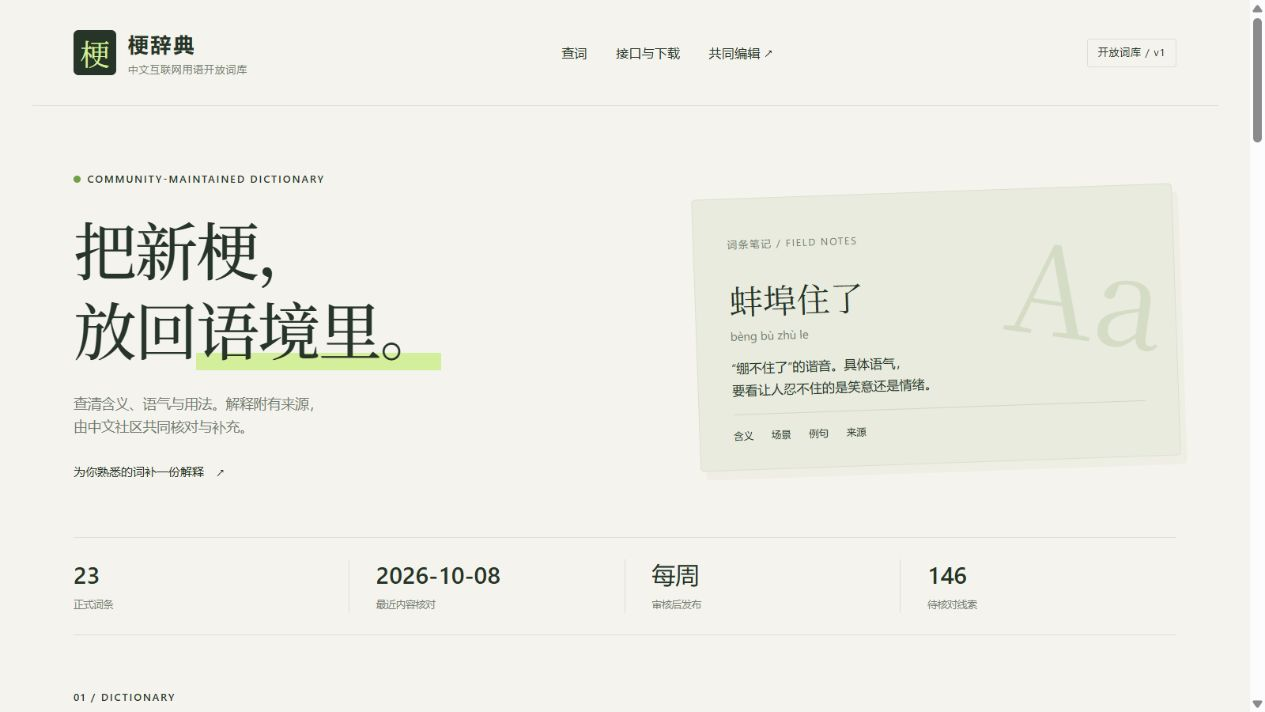
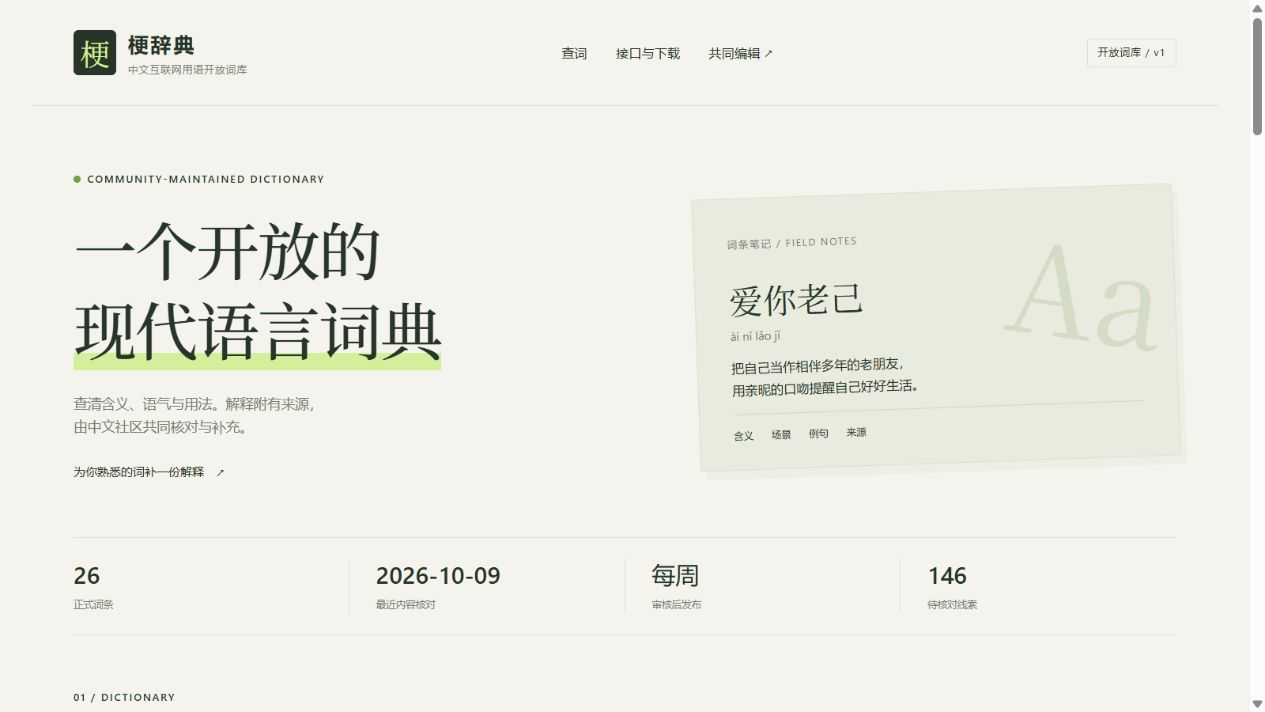
content: refresh featured terms and homepage copy

diff --git a/index.html b/index.html
@@ -19,8 +19,8 @@
   </header>
   <main class="wrap">
     <section class="hero" aria-labelledby="hero-title">
-      <div class="hero-copy"><span class="eyebrow"><span class="dot"></span> COMMUNITY-MAINTAINED DICTIONARY</span><h1 id="hero-title">把新梗，<br>放回<span class="highlight">语境里。</span></h1><p>查清含义、语气与用法。解释附有来源，<br class="desktop-break">由中文社区共同核对与补充。</p><a class="text-link" href="#contribute">为你熟悉的词补一份解释 <span aria-hidden="true">↗</span></a></div>
-      <div class="hero-note"><span class="note-label">词条笔记 / FIELD NOTES</span><div class="note-term">蚌埠住了<span>bèng bù zhù le</span></div><p>“绷不住了”的谐音。具体语气，<br>要看让人忍不住的是笑意还是情绪。</p><div class="note-bottom"><span>含义</span><span>场景</span><span>例句</span><span>来源</span></div><span class="note-number" aria-hidden="true">Aa</span></div>
+      <div class="hero-copy"><span class="eyebrow"><span class="dot"></span> COMMUNITY-MAINTAINED DICTIONARY</span><h1 id="hero-title">一个开放的<br><span class="highlight">现代语言词典</span></h1><p>查清含义、语气与用法。解释附有来源，<br class="desktop-break">由中文社区共同核对与补充。</p><a class="text-link" href="#contribute">为你熟悉的词补一份解释 <span aria-hidden="true">↗</span></a></div>
+      <div class="hero-note"><span class="note-label">词条笔记 / FIELD NOTES</span><div class="note-term">爱你老己<span>ài nǐ lǎo jǐ</span></div><p>把自己当作相伴多年的老朋友，<br>用亲昵的口吻提醒自己好好生活。</p><div class="note-bottom"><span>含义</span><span>场景</span><span>例句</span><span>来源</span></div><span class="note-number" aria-hidden="true">Aa</span></div>
     </section>
     <section class="stats" aria-label="词库概况"><div><strong id="entryCount">—</strong><span>正式词条</span></div><div><strong id="reviewDate">—</strong><span>最近内容核对</span></div><div><strong>每周</strong><span>审核后发布</span></div><div><strong id="candidateCount">—</strong><span>待核对线索</span></div></section>
     <section id="dictionary" class="dictionary-section" aria-labelledby="dictionary-title">
@@ -32,7 +32,7 @@
       <div id="entries" class="entry-grid"></div>
       <div id="noResults" class="empty-state" hidden><span class="empty-symbol" aria-hidden="true">＋</span><h3>还没收录你要找的词</h3><p>社区可以补充词义、用例与来源，核对后再进入正式词库。</p><a id="suggestLink" class="button" href="https://github.com/Roelatriper/china-meme-dictionary/issues/new?template=meme.yml" target="_blank" rel="noopener">提一个新词 ↗</a></div>
     </section>
-    <section id="api" class="api-section" aria-labelledby="api-title"><div class="api-copy"><span class="eyebrow">02 / FOR BUILDERS</span><h2 id="api-title">让程序也读懂。</h2><p>同一份中文词库，供用户查阅，也供 AI 和应用使用。无需 API Key，保留释义、例句和来源。</p><div class="download-links"><a class="button light" href="./api/v1/all.json" download="china-meme-dictionary.json">下载完整 JSON ↓</a><a class="text-link" href="./api/v1/index.json" target="_blank" rel="noopener">词条索引 ↗</a></div><p class="api-caption">静态 JSON 始终可读。直接查询接口可在本地服务或 Cloudflare 部署后调用。</p><a class="text-link" href="https://github.com/Roelatriper/china-meme-dictionary/blob/main/docs/api.md" target="_blank" rel="noopener">调用文档与示例 ↗</a></div><div class="code-panel"><div class="code-toolbar"><span><i></i><i></i><i></i></span><span>精确查询 · 词库演示</span><button id="copyJson" type="button">复制 JSON</button></div><form id="demoForm" class="demo-form"><label class="sr-only" for="demoTerm">演示查询词名</label><span>term=</span><input id="demoTerm" value="内卷" maxlength="128"><button type="submit">运行 →</button></form><pre id="demoOutput" aria-live="polite">正在读取词库…</pre></div></section>
+    <section id="api" class="api-section" aria-labelledby="api-title"><div class="api-copy"><span class="eyebrow">02 / FOR BUILDERS</span><h2 id="api-title">让程序也读懂。</h2><p>同一份中文词库，供用户查阅，也供 AI 和应用使用。无需 API Key，保留释义、例句和来源。</p><div class="download-links"><a class="button light" href="./api/v1/all.json" download="china-meme-dictionary.json">下载完整 JSON ↓</a><a class="text-link" href="./api/v1/index.json" target="_blank" rel="noopener">词条索引 ↗</a></div><p class="api-caption">静态 JSON 始终可读。直接查询接口可在本地服务或 Cloudflare 部署后调用。</p><a class="text-link" href="https://github.com/Roelatriper/china-meme-dictionary/blob/main/docs/api.md" target="_blank" rel="noopener">调用文档与示例 ↗</a></div><div class="code-panel"><div class="code-toolbar"><span><i></i><i></i><i></i></span><span>精确查询 · 词库演示</span><button id="copyJson" type="button">复制 JSON</button></div><form id="demoForm" class="demo-form"><label class="sr-only" for="demoTerm">演示查询词名</label><span>term=</span><input id="demoTerm" value="爱你老己" maxlength="128"><button type="submit">运行 →</button></form><pre id="demoOutput" aria-live="polite">正在读取词库…</pre></div></section>
     <section id="contribute" class="contribute-section" aria-labelledby="contribute-title"><div><span class="eyebrow">03 / BUILT TOGETHER</span><h2 id="contribute-title">你熟悉的语境，<br>正是词典需要的。</h2><p>新词、不同含义、失效来源，都可以一起修订。<br>贡献者提交内容，维护者集中审核，正式词库每周发布。</p><a class="button" href="https://github.com/Roelatriper/china-meme-dictionary/issues/new?template=meme.yml" target="_blank" rel="noopener">提交词条或线索 ↗</a><a class="text-link contribution-guide" href="https://github.com/Roelatriper/china-meme-dictionary/blob/main/CONTRIBUTING.md" target="_blank" rel="noopener">贡献指南</a></div><ol class="contribution-steps"><li><span>01</span><div><h3>发现与提词</h3><p>B站、微博、抖音的公开热点与社区提词，进入待核对线索。</p></div></li><li><span>02</span><div><h3>补释义与来源</h3><p>用自己的话解释，附上用例或出处；起源不确定时保留未知。</p></div></li><li><span>03</span><div><h3>审核后发布</h3><p>通过审核的词条进入网站与接口，待审内容继续留在队列。</p></div></li></ol></section>
     <section class="collection-note" aria-label="采集状态"><span class="dot"></span><p id="collectionStatus">候选线索与正式词条分开保存。</p><a href="./api/v1/candidates.json" target="_blank" rel="noopener">查看候选队列 ↗</a></section>
   </main>

diff --git a/docs/content-refresh-2026-10.md b/docs/content-refresh-2026-10.md
@@ -1,0 +1,102 @@
+# 首页词条更新核对
+
+核对日期：2026-10-09。本轮已将下面三个词加入正式词库，共 26 条；首页笔记与接口演示改用「爱你老己」，主标题改为「一个开放的现代语言词典」。历史词条保留供查询。本文件记录采用来源与内容研究依据，最终释义及例句以 `data/entries.json` 为准。
+
+下面的来源日期是报道或用例的发表日期，不能当作词语首创日期，也不能据此证明它在 2026 年 10 月仍是实时热榜。建议新词统一保留 `first_seen: null`，`reviewed_at: "2026-10-09"`；首页称为“近期收录”或“新词精选”比“今日热门”准确。定义、用法和例句均由编辑整理或自编，未整段转载来源内容。
+
+## 爱你老己
+
+建议 ID：`ai-ni-lao-ji`。拼音：`ài nǐ lǎo jǐ`。标签：情绪、自我关怀。可选别名：爱你，老己。
+
+- 建议释义：把自己当作老朋友，用亲切的口吻表达关心、肯定和善待自己。
+- 建议用法：常用于自我安慰、给自己鼓励或安排休息，语气轻松、温柔，老己指自己。
+- 编辑自编例句：忙了一整天，今晚早点休息。爱你老己，明天见。
+
+[新华日报《“爱你老己”：最热的梗，也是最坚韧的力量》](https://www.zgjssw.gov.cn/yaowen/202601/t20260112_8551392.shtml)发表于 **2026-01-12 08:51**，记者魏晓敏、吴雨阳。直接解释老己这一称呼如何将自己当作老朋友，并介绍屏保、点奶茶、写日记等实际使用场景。该原报道由中共江苏省委新闻网刊载。
+
+[新华社《千笔楼丨爱你，老己！》](https://www.news.cn/politics/20260218/74f12aa5b9614304b070394e78b91111/c.html)发表于 **2026-02-18 10:29:55**，是新华社自身实际使用该表达的文章，可作为公开用例补充。
+
+证据限度：这两篇报道足以支持上面的窄范围释义与用法，但未证明最早创作者、原始视频或首创时间。建议不写游戏人物、主播等未经独立核验的起源归因。
+
+可直接使用的来源对象：
+
+```json
+[
+  {
+    "title": "“爱你老己”：最热的梗，也是最坚韧的力量",
+    "url": "https://www.zgjssw.gov.cn/yaowen/202601/t20260112_8551392.shtml",
+    "kind": "explanation",
+    "publisher": "新华日报（中共江苏省委新闻网刊载）"
+  },
+  {
+    "title": "千笔楼丨爱你，老己！",
+    "url": "https://www.news.cn/politics/20260218/74f12aa5b9614304b070394e78b91111/c.html",
+    "kind": "usage",
+    "publisher": "新华社"
+  }
+]
+```
+
+## 活人感
+
+建议 ID：`huo-ren-gan`。拼音：`huó rén gǎn`。标签：评价、社交。无需先编入别名。
+
+- 建议释义：形容人物、表达或作品自然、真实、有情绪和生活气息，给人鲜活的感受。
+- 建议用法：多用于赞美不端着、不过分包装的表达；有瑕疵或随性可以体现这种感觉，但不等同于敷衍或缺乏专业度。
+- 编辑自编例句：她讲到自己做饭翻车时忍不住笑了，这段采访很有活人感。
+
+优先采用[人民日报《什么样的文艺质感更受青睐》](https://paper.people.com.cn/rmrb/pc/content/202512/09/content_30119185.html)，**2025-12-09 第 20 版**，作者李静。已实际打开全文。文章解释真实、不完美、生活细节与人性温度等特征，并给出综艺、影视、社交表达中的使用场景；也提醒不要用活人感为粗糙制作辩护。
+
+本轮也检索核对了[人民网《流行语背后的共情与共识》](https://opinion.people.com.cn/n1/2025/1203/c1003-40616821.html)，**2025-12-03 21:39**，作者李岱，页面注明来源是澎湃新闻评论。这一页直接打开失败，但检索返回其文章正文。它与上述人民日报原文在真实、自然、自我呈现等含义上一致；因原版报纸正文已可直接读取，建议正式词条优先引用原版。
+
+证据限度：来源确认该词已被 2025 年的语言盘点收录并讨论，不能推出它在 2025 年才首次出现。也不能仅凭有活人感判断内容一定由真人创作。
+
+可直接使用的来源对象：
+
+```json
+[
+  {
+    "title": "什么样的文艺质感更受青睐",
+    "url": "https://paper.people.com.cn/rmrb/pc/content/202512/09/content_30119185.html",
+    "kind": "explanation",
+    "publisher": "人民日报"
+  }
+]
+```
+
+## 从夯到拉
+
+建议 ID：`cong-hang-dao-la`。拼音：`cóng hāng dào lā`。标签：评价、排序。无需先编入别名。
+
+- 建议释义：用夯到拉的等级给事物排序，夯表示评价很高，拉表示评价很低。
+- 建议用法：常见于游戏、作品、产品等的分档评价，往往带调侃；属于评价者按自己的标准排序，具体档位可以变化。
+- 编辑自编例句：我把今年玩过的游戏从夯到拉排了一遍，最喜欢的放在夯这一档。
+
+[新华报业网《来东台西溪，邂逅最“夯”冬日浪漫！》](https://www.xhby.net/content/s694e3673e4b096256d6bb8c8.html)，**2025-12-26 15:17**。实际打开正文，开头直接说明这是一种阶梯式排名，并明确夯是最高级。页面电头为新华报业网，是该媒体自身使用并解释词语的材料。
+
+[B站原创《国内万事达卡从夯到拉排名》](https://www.bilibili.com/opus/1120518218368155655)，**2025-10-06 13:42**，作者 E少修。实际打开正文，作者明确以个人喜好和部分客观因素进行排名，列出了夯、顶级、人上人、NPC、拉五档，拉排在最后。这里仅引用表达的使用方式，不采纳或背书其金融产品评价。
+
+另核对[数英原创《锐评「2025年度营销事件」，从夯到拉》](https://www.digitaling.com/articles/1451904.html)，**2026-01-16**，作为这一表达在营销评论中的后续实际用例。该文作者采用自己的评级标准，也支持不把这种评级当作统一标准的解释。
+
+证据限度：本轮已核对到媒体直接解释和平台原始用例，因此第三词无需替换。以上证据未证明最早作者；不能断言每一次使用都固定五档，或把它当作客观、官方评价体系。未采用百度 AI 摘要、小说百科或无出处的首创归因。
+
+可直接使用的来源对象：
+
+```json
+[
+  {
+    "title": "来东台西溪，邂逅最“夯”冬日浪漫！",
+    "url": "https://www.xhby.net/content/s694e3673e4b096256d6bb8c8.html",
+    "kind": "explanation",
+    "publisher": "新华报业网"
+  },
+  {
+    "title": "国内万事达卡从夯到拉排名",
+    "url": "https://www.bilibili.com/opus/1120518218368155655",
+    "kind": "usage",
+    "publisher": "哔哩哔哩：E少修"
+  }
+]
+```
+
+感谢以上原报道作者、媒体和平台贡献者，为中文网络语言的记录与核对提供依据。

diff --git a/docs/verification.md b/docs/verification.md
@@ -2,6 +2,13 @@
 
 完成日期：2026-10-09（Asia/Hong_Kong）。内容核对与首次采集在 2026-10-08 完成。
 
+## 首页与近期词条更新（2026-10-09）
+
+- 正式词库补入爱你老己、活人感、从夯到拉，共 26 条；来源与证据限度见 [本轮核对](content-refresh-2026-10.md)。
+- `npm run check` 的 17 项测试通过；构建成功导出新词条及来源。
+- 浏览器确认主标题为「一个开放的现代语言词典」，三条新词位于列表前部，接口演示返回爱你老己，详情显示两个核对来源。
+- 桌面与 390px 手机预览中标题完整、无横向溢出；已更新 README 的首页截图。本地服务已重启以读取新词库。
+
 ## 已完成
 
 - `npm run check`：17 项测试通过，涵盖来源解析、增量累积、临时 cookie、超时、失败保护、精确查询、来源门槛、Worker 响应、索引与单条导出，以及从发布数据移除词条时旧文件清理。

diff --git a/README.md b/README.md
@@ -4,6 +4,8 @@
 
 首批 23 条由旧库逐条校订而来，**不是当前热榜**。`reviewed_at` 是内容核对日期，未知起源用 `first_seen: null` 表示。详见 [词条来源核对](docs/content-research.md)。
 
+2026-10-09 补入「爱你老己」「活人感」「从夯到拉」，共 26 条正式词条；首页与接口演示改用「爱你老己」。本次采用 2025—2026 年的公开报道与平台用例，见 [近期词条来源核对](docs/content-refresh-2026-10.md)。
+
 ![第一版预览](docs/preview-desktop.jpg)
 
 ## 本地使用
